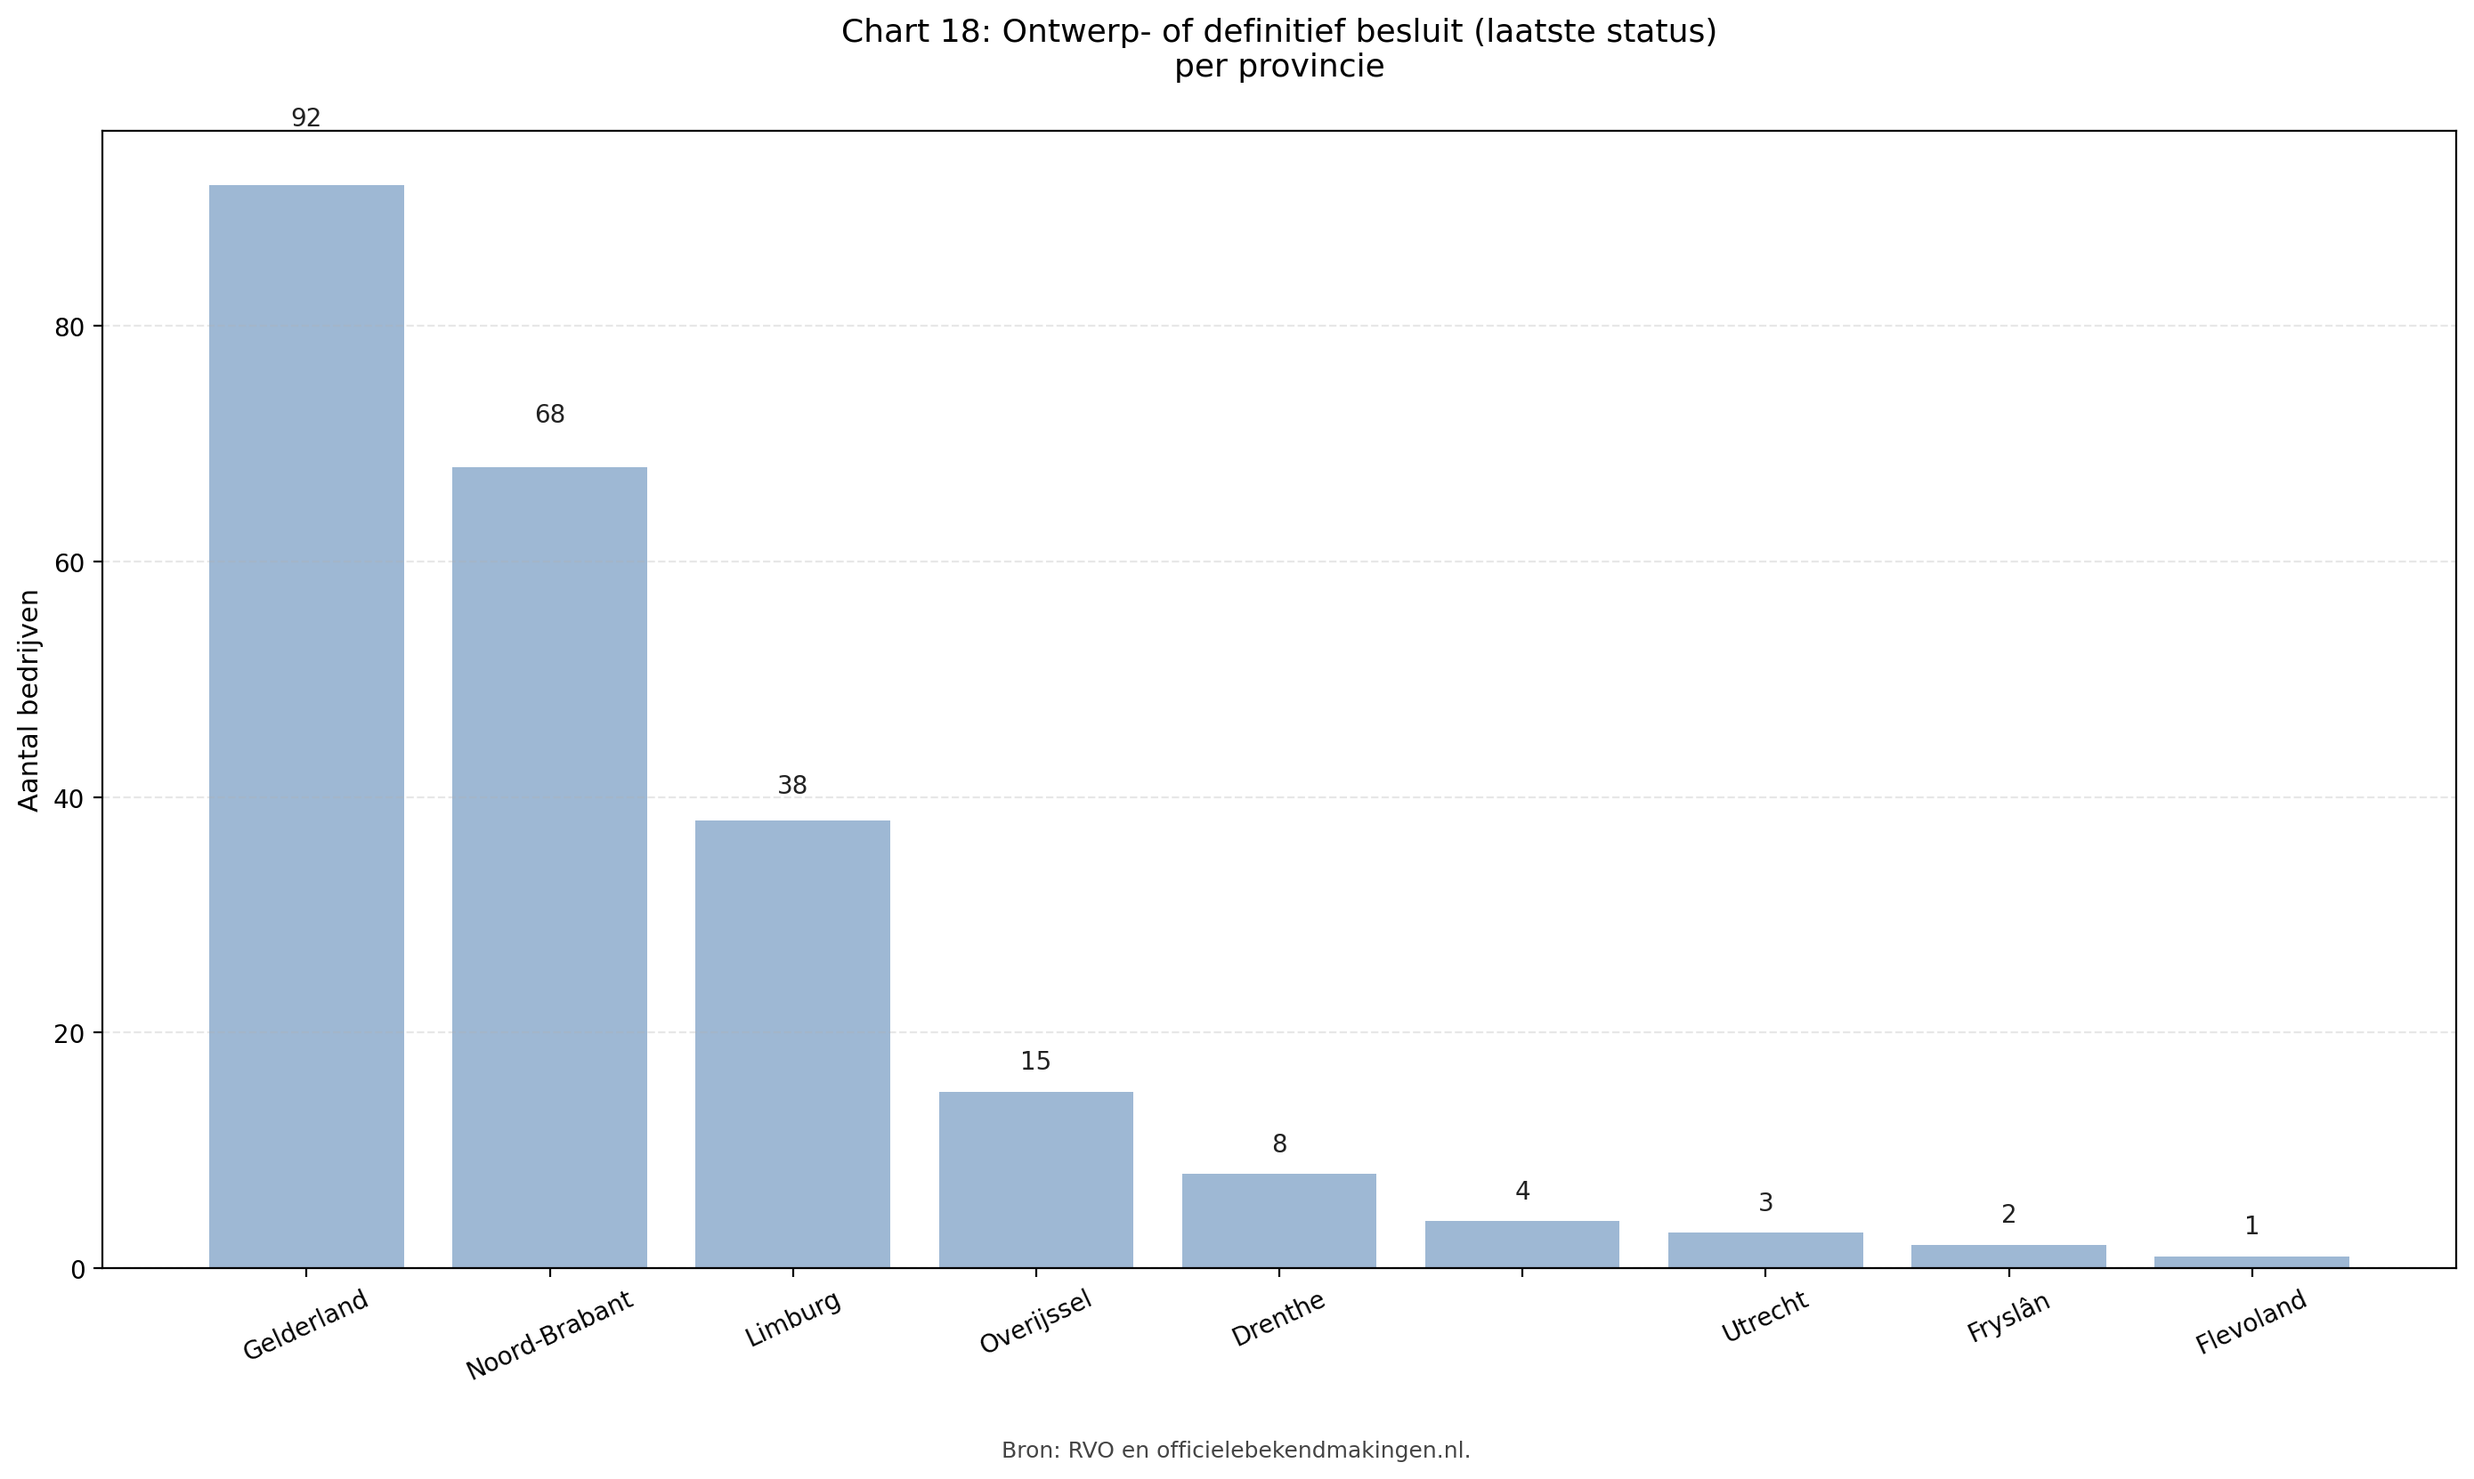
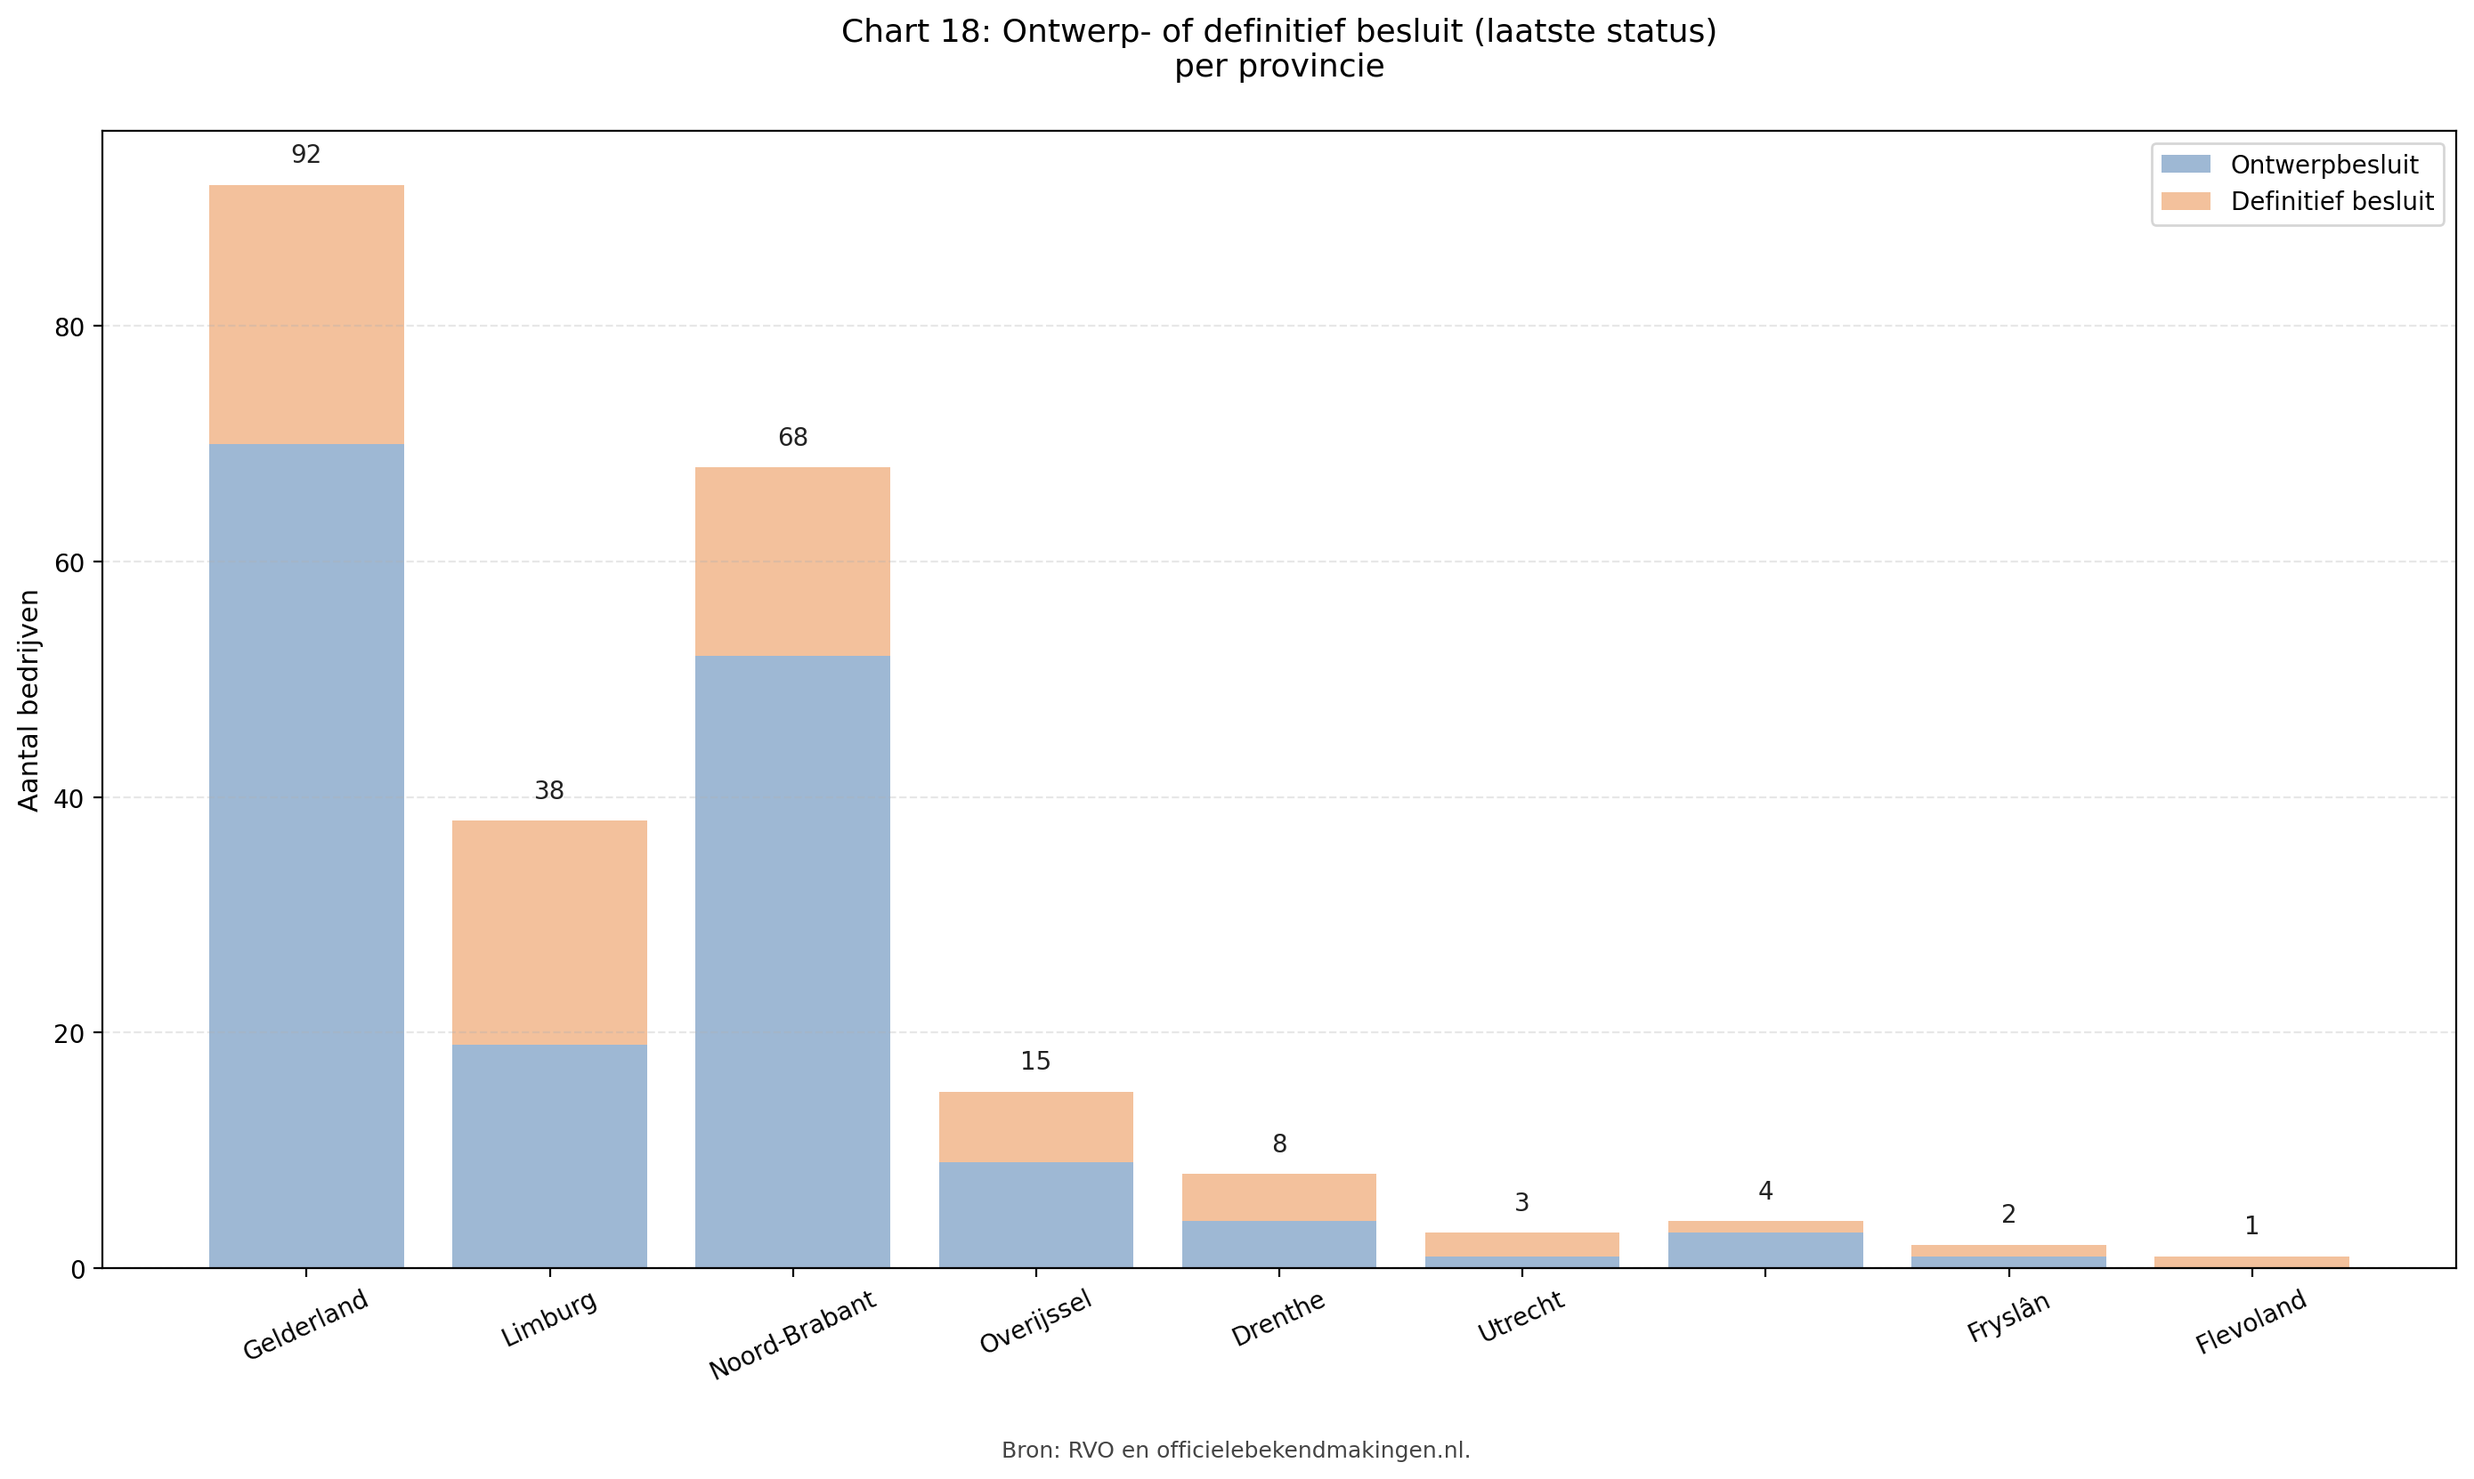
Stack chart 18 by stage

diff --git a/pipelines/matching_ftm/analysis/ftm/14_generate_charts.py b/pipelines/matching_ftm/analysis/ftm/14_generate_charts.py
@@ -1267,15 +1267,23 @@ def plot_chart16_receipt_vs_draft_def(
     plt.close(fig)
 
 
-def plot_chart18_draft_def_by_province(counts: pd.Series, output_path: Path) -> None:
-    """Bar chart of latest-stage draft/definitive farms per province."""
+def plot_chart18_draft_def_by_province(counts: pd.DataFrame, output_path: Path) -> None:
+    """Stacked bar chart of latest-stage draft vs definitive farms per province."""
     output_path.parent.mkdir(parents=True, exist_ok=True)
 
     provinces = list(counts.index)
-    values = [int(v) for v in counts.values]
+    draft = [int(v) for v in counts.get("draft_decision", pd.Series(index=counts.index, data=0)).tolist()]
+    definitive = [int(v) for v in counts.get("definitive_decision", pd.Series(index=counts.index, data=0)).tolist()]
 
     fig, ax = plt.subplots(figsize=STYLE["figsize"])
-    bars = ax.bar(provinces, values, color=str(STYLE["color_permit"]))
+    bars_draft = ax.bar(provinces, draft, color=str(STYLE["color_permit"]), label="Ontwerpbesluit")
+    bars_def = ax.bar(
+        provinces,
+        definitive,
+        bottom=draft,
+        color=str(STYLE["color_minfin"]),
+        label="Definitief besluit",
+    )
     ax.set_ylabel("Aantal bedrijven")
     ax.set_title(
         wrap_title(
@@ -1286,8 +1294,10 @@ def plot_chart18_draft_def_by_province(counts: pd.Series, output_path: Path) -> 
     )
     ax.tick_params(axis="x", rotation=25)
     ax.grid(axis="y", linestyle="--", alpha=0.3)
+    ax.legend()
 
-    annotate_bar_tops(ax, bars, values, use_log=False)
+    totals = [d + df for d, df in zip(draft, definitive)]
+    annotate_bar_tops(ax, bars_def, totals, use_log=False)
 
     fig.tight_layout()
     add_subtitle(fig, "Bron: RVO en officielebekendmakingen.nl.")
@@ -1876,9 +1886,10 @@ def generate_charts(
     )
     draft_def_by_province = (
         permit_farms[permit_farms["stage_latest_llm"].isin({"draft_decision", "definitive_decision"})]
-        .groupby("Province")["farm_id"]
+        .groupby(["Province", "stage_latest_llm"])["farm_id"]
         .nunique()
-        .sort_values(ascending=False)
+        .unstack(fill_value=0)
+        .sort_values(by=["definitive_decision", "draft_decision"], ascending=False)
     )
 
     animals_def = int(stage_counts["definitive_decision"].sum())
@@ -1989,7 +2000,12 @@ def generate_charts(
             "buyout_cbs": buyout_cbs_combined.reset_index().rename(columns={"index": "category"}).to_dict(orient="records"),
             "buyout_farms": int(buyout_cbs_combined.attrs.get("buyout_farms", 0)),
         },
-        "chart18": {"counts": {k: int(v) for k, v in draft_def_by_province.items()}},
+        "chart18": {
+            "counts": {
+                prov: {stage: int(val) for stage, val in row.items()}
+                for prov, row in draft_def_by_province.iterrows()
+            }
+        },
         "chart12": {
             "receipt_days": receipt_days.tolist(),
             "receipt_stats": receipt_stats,
@@ -2202,7 +2218,7 @@ def generate_charts(
     )
 
     c18 = chart_data.get("chart18", {})
-    draft_def_counts = pd.Series(c18.get("counts", {}))
+    draft_def_counts = pd.DataFrame.from_dict(c18.get("counts", {}), orient="index")
     chart18_path = charts_dir / CHART_FILES["draft_def_by_province"]
     plot_chart18_draft_def_by_province(draft_def_counts, chart18_path)
     print(f"Saved draft/def by province chart to {chart18_path}.")
